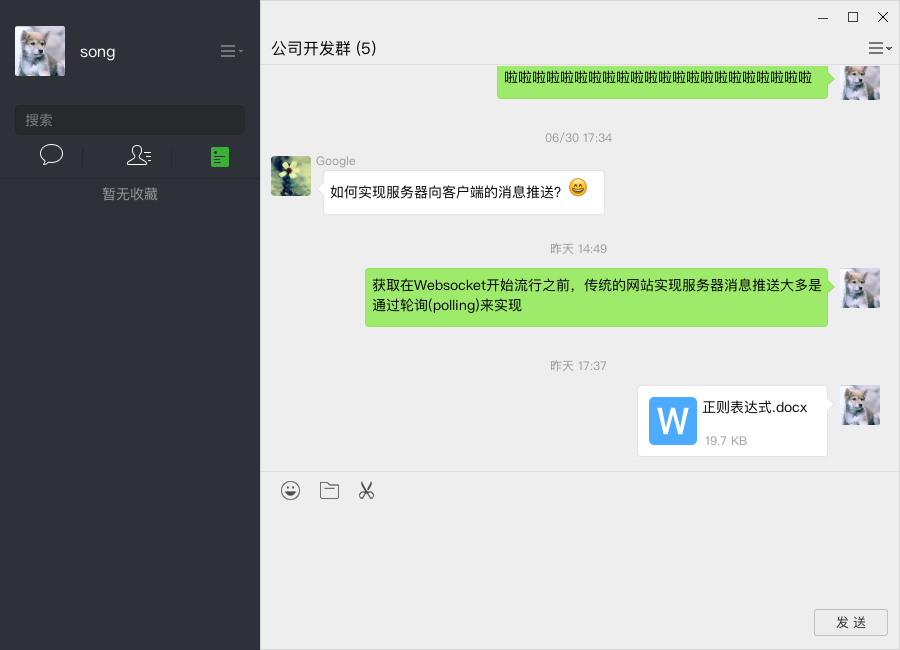
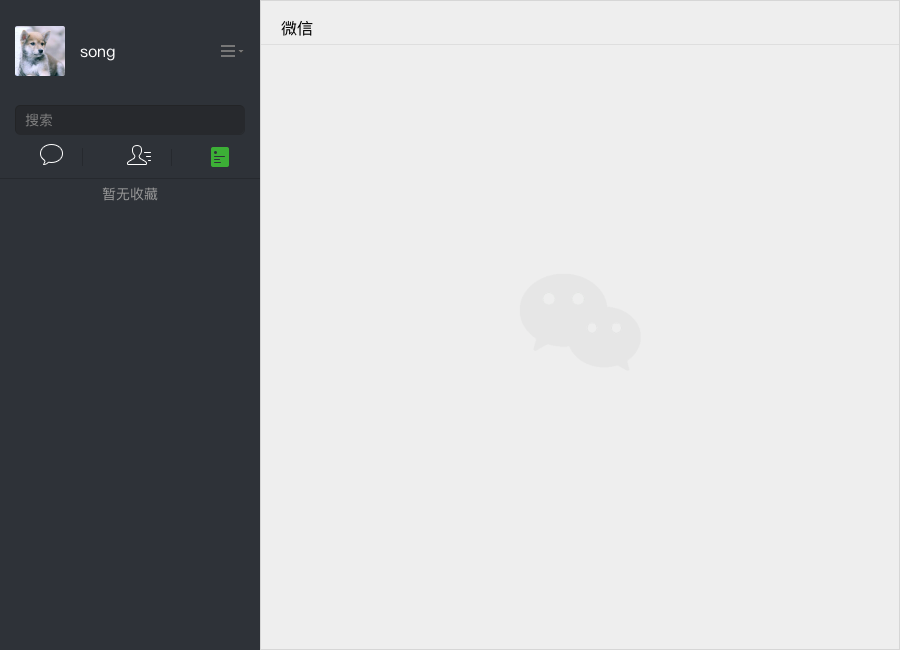
init

diff --git a/src/com/rc/frames/LoginFrame.java b/src/com/rc/frames/LoginFrame.java
@@ -255,7 +255,16 @@ public class LoginFrame extends JFrame
 
     private void doLogin()
     {
-        String name = usernameField.getText();
+
+        this.dispose();
+
+        MainFrame frame = new MainFrame();
+        frame.setDefaultCloseOperation(JFrame.EXIT_ON_CLOSE);
+        frame.setVisible(true);
+
+
+        // TODO: 登录逻辑
+        /*String name = usernameField.getText();
         String pwd = new String(passwordField.getPassword());
 
         if (name == null || name.isEmpty())
@@ -295,7 +304,7 @@ public class LoginFrame extends JFrame
             task.addRequestParam("username", usernameField.getText());
             task.addRequestParam("password", new String(passwordField.getPassword()));
             task.execute(Launcher.HOSTNAME + "/api/v1/login");
-        }
+        }*/
     }
 
     private void processLoginResult(JSONObject ret)

diff --git a/src/com/rc/app/Launcher.java b/src/com/rc/app/Launcher.java
@@ -106,7 +106,7 @@ public class Launcher
     private boolean checkLoginInfo()
     {
         // TODO 判断是否已登录的逻辑
-        return true;
+        return false;
     }
 
     /**

diff --git a/README.md b/README.md
@@ -1,1 +1,118 @@
+ Java swing实现仿微信UI，参考网页版微信的UI设计：https://wx.qq.com/
+ 首页效果如下：
+ 
+ 
  ![image](https://github.com/itsonglin/wechat_desktop/raw/master/descPics/main.png)
+ 
+## 通讯录
+ 
+ ![image](https://github.com/itsonglin/wechat_desktop/raw/master/descPics/contacts.png)
+ 
+ 
+## 收藏
+ 
+ ![image](https://github.com/itsonglin/wechat_desktop/raw/master/descPics/collections.png)
+ 
+## 收藏
+  
+  ![image](https://github.com/itsonglin/wechat_desktop/raw/master/descPics/collections.png)
+
+## 主菜单
+
+  ![image](https://github.com/itsonglin/wechat_desktop/raw/master/descPics/menu.png)
+  
+## 创建群聊
+
+  ![image](https://github.com/itsonglin/wechat_desktop/raw/master/descPics/group.png)
+  
+  
+## 设置
+### 个人信息
+
+  ![image](https://github.com/itsonglin/wechat_desktop/raw/master/descPics/me.png)
+  
+### 更改头像
+
+  ![image](https://github.com/itsonglin/wechat_desktop/raw/master/descPics/avatar.png)
+  
+  
+### 修改密码
+
+  ![image](https://github.com/itsonglin/wechat_desktop/raw/master/descPics/password.png)
+  
+  
+### 清除缓存
+
+  ![image](https://github.com/itsonglin/wechat_desktop/raw/master/descPics/cahce.png)
+
+
+### 关于
+
+  ![image](https://github.com/itsonglin/wechat_desktop/raw/master/descPics/about.png)
+  
+  
+## 聊天
+
+### 选择聊天用户
+
+  ![image](https://github.com/itsonglin/wechat_desktop/raw/master/descPics/user.png)
+  
+
+### 查看用户信息
+
+  ![image](https://github.com/itsonglin/wechat_desktop/raw/master/descPics/userinfo.png)
+
+
+### 上传附件
+
+  ![image](https://github.com/itsonglin/wechat_desktop/raw/master/descPics/upload.png)
+  
+
+### 发送图片
+
+  ![image](https://github.com/itsonglin/wechat_desktop/raw/master/descPics/pic.png)
+  
+  
+### 编辑消息，支持粘贴文字、文件及图片
+
+  ![image](https://github.com/itsonglin/wechat_desktop/raw/master/descPics/chat.png)
+  
+
+### 选择表情
+
+  ![image](https://github.com/itsonglin/wechat_desktop/raw/master/descPics/emoji.png)
+  
+  
+### 截图
+
+  ![image](https://github.com/itsonglin/wechat_desktop/raw/master/descPics/cut.png)
+  
+
+### 查看图片
+
+  ![image](https://github.com/itsonglin/wechat_desktop/raw/master/descPics/imageViewer.png)
+
+
+### 查看群成员
+
+  ![image](https://github.com/itsonglin/wechat_desktop/raw/master/descPics/member.png)
+  
+  
+## 登录
+
+  ![image](https://github.com/itsonglin/wechat_desktop/raw/master/descPics/login.png)
+
+  
+
+
+
+  
+
+
+
+
+
+
+
+
+
